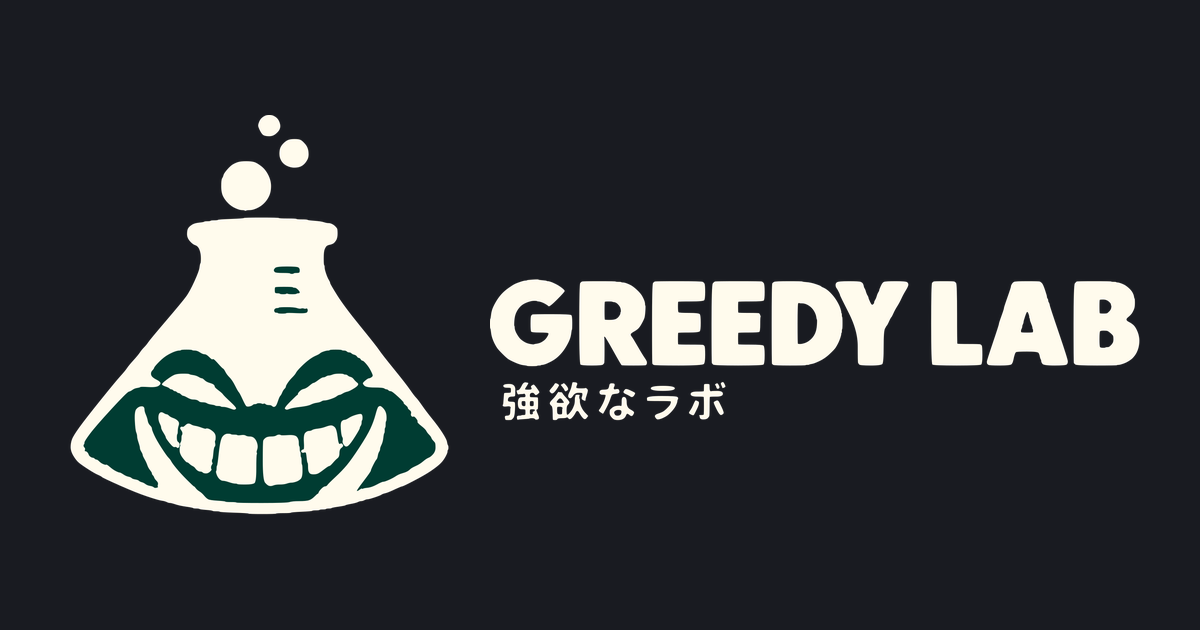
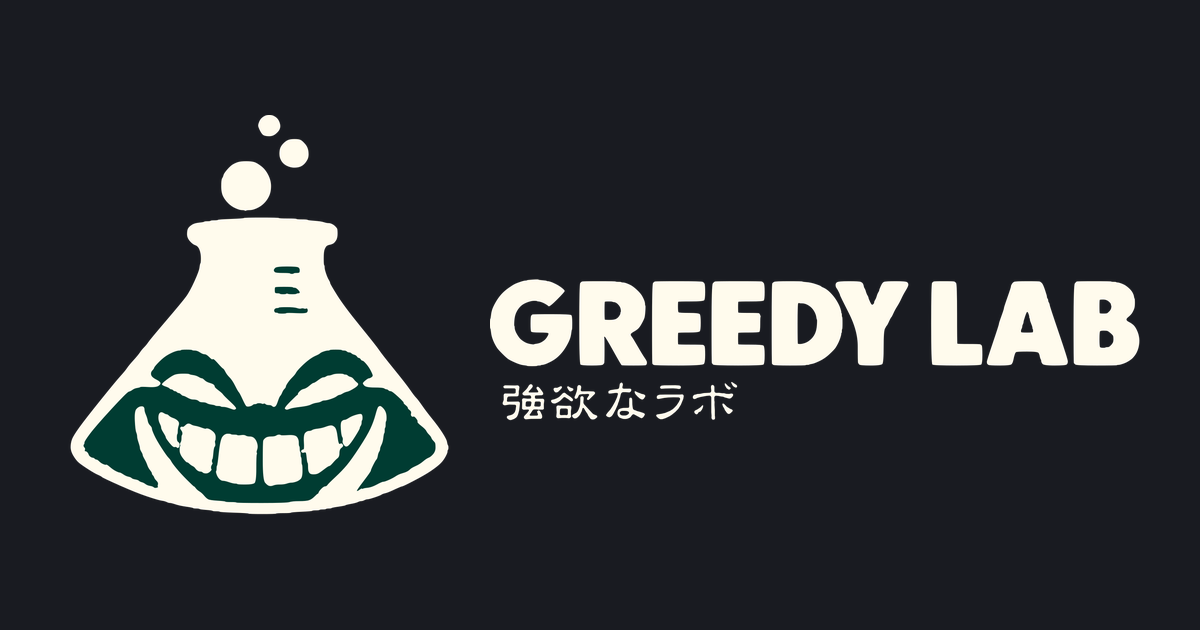
ロゴの「強欲なラボ」をカード名ふうの隷書に
GREEDY LAB のロゴ（wordmark-lockup・logo-lockup）の日本語部分の輪郭を、
試作フォント ProtoReisho-PR12（遊戯王のカード名の字を画像から写したもの）の
字の輪郭に入れ替えた。PNG は SVG を cairosvg で描き直し、OGP 画像
（og-logo・og-post-logo・og-image）は build_icons.py --og で作り直した。

- tools/build_brand_subtitle.py：日本語部分の輪郭を外し、同じ左端・高さに
  指定フォントの字を置く（フォントは --font で渡す。リポジトリには入れない）
- 変わったのは日本語の行だけ（入れ替え前後の画素の差で確認）

Changed region(s): [[0.4008, 0.6032, 0.6167, 0.6635]]

diff --git a/tools/build_brand_subtitle.py b/tools/build_brand_subtitle.py
@@ -1,0 +1,133 @@
+"""
+ロゴの「強欲なラボ」（GREEDY LAB の下の日本語）を、指定したフォントの字形に入れ替える（生成専用・本番未使用）
+
+使い方:
+    python tools/build_brand_subtitle.py --font <フォント.ttf>
+    python tools/build_icons.py --og      # 続けて OGP 画像（og-logo / og-post-logo / og-image）を作り直す
+
+入力:
+    static/brand/wordmark-lockup.svg・logo-lockup.svg（同じ輪郭の path を使い回している）
+    --font：字形を取るフォント。リポジトリには置かない（2026-10-30 は yugioh-shorts の試作フォント ProtoReisho-PR12.ttf。
+            カード名の字形を写した試作で、フォントファイルは配布しない。ロゴには輪郭だけを書き出す）
+出力（上書き）:
+    static/brand/wordmark-lockup.svg / .png（2000x436）・logo-lockup.svg / .png（1500x500）
+    PNG は SVG を cairosvg で描いたもの（入れ替え前の PNG もこの方法で描いたものと画素単位で一致することを確かめた）
+
+入れ替え方:
+    元の輪郭を部品（M〜Z）に分け、「GREEDY LAB」の下端より下にある部品を日本語の部分とみなして外す。
+    外した部分と同じ左端・同じ高さ・同じ上下の中心に、フォントの字の輪郭を置く（字送りはフォントの送り幅）。
+"""
+from pathlib import Path
+import argparse
+import re
+
+import cairosvg
+from fontTools.ttLib import TTFont
+from fontTools.pens.svgPathPen import SVGPathPen
+from fontTools.pens.transformPen import TransformPen
+from fontTools.pens.boundsPen import BoundsPen
+
+STATIC = Path(__file__).resolve().parent.parent / 'static'
+TEXT = '強欲なラボ'
+NUM = re.compile(r'-?\d+(?:\.\d+)?')
+
+
+def split_subpaths(d):
+    """M で始まり Z で終わる部品に分ける（このロゴは絶対座標の M・Q・Z だけで書かれている）。"""
+    parts = re.findall(r'M[^M]*', d)
+    if ''.join(parts) != d:
+        raise ValueError('path の形が想定と違う（M で始まる部品の並びになっていない）')
+    return parts
+
+
+def bbox(part):
+    v = list(map(float, NUM.findall(part)))
+    xs, ys = v[0::2], v[1::2]
+    return min(xs), min(ys), max(xs), max(ys)
+
+
+def split_upper_lower(parts):
+    """どの部品にもまたがれない高さで、上（GREEDY LAB）と下（日本語）に分ける。下の部品群が上より低いことも確かめる。"""
+    boxes = [bbox(p) for p in parts]
+    for y in sorted({b[3] for b in boxes}):
+        upper = [i for i, b in enumerate(boxes) if b[3] <= y]
+        lower = [i for i, b in enumerate(boxes) if b[1] > y]
+        if upper and lower and len(upper) + len(lower) == len(parts):
+            uh = max(boxes[i][3] for i in upper) - min(boxes[i][1] for i in upper)
+            lh = max(boxes[i][3] for i in lower) - min(boxes[i][1] for i in lower)
+            if lh < uh:
+                return upper, lower, boxes
+    raise ValueError('GREEDY LAB と日本語の境目が見つからない')
+
+
+def text_path(font_path, x0, y_center, height):
+    """フォントの字を、左端 x0・上下の中心 y_center・インクの高さ height に置いた SVG の path を返す。"""
+    font = TTFont(font_path)
+    cmap = font.getBestCmap()
+    gs = font.getGlyphSet()
+    hmtx = font['hmtx']
+    missing = [c for c in TEXT if ord(c) not in cmap]
+    if missing:
+        raise ValueError(f'フォントに字が無い: {"".join(missing)}')
+    # まずフォント単位でインクの外枠を測る（y は上向き）
+    bp = BoundsPen(gs)
+    cursor = 0
+    for ch in TEXT:
+        name = cmap[ord(ch)]
+        gs[name].draw(TransformPen(bp, (1, 0, 0, 1, cursor, 0)))
+        cursor += hmtx[name][0]
+    fx0, fy0, fx1, fy1 = bp.bounds
+    k = height / (fy1 - fy0)
+    # フォント座標 → ロゴの座標（y を反転）
+    pen = SVGPathPen(gs)
+    cursor = 0
+    fcy = (fy0 + fy1) / 2
+    for ch in TEXT:
+        name = cmap[ord(ch)]
+        t = (k, 0, 0, -k, x0 + (cursor - fx0) * k, y_center + fcy * k)
+        gs[name].draw(TransformPen(pen, t))
+        cursor += hmtx[name][0]
+    return pen.getCommands(), (fx1 - fx0) * k
+
+
+def replace_in_svg(svg_text, old_d, kept_d, new_d):
+    m = re.search(r'<path([^>]*)\sd="' + re.escape(old_d) + r'"([^>]*)/>', svg_text)
+    if not m:
+        raise ValueError('入れ替える path が見つからない')
+    attrs = (m.group(1) + m.group(2)).strip()
+    fill = re.search(r'fill="([^"]+)"', attrs).group(1)
+    repl = (f'<path {attrs} d="{kept_d}"/>'
+            f'<path fill="{fill}" fill-rule="nonzero" d="{new_d}"/>')
+    return svg_text[:m.start()] + repl + svg_text[m.end():]
+
+
+def main():
+    ap = argparse.ArgumentParser(description=__doc__.split('\n')[1])
+    ap.add_argument('--font', required=True, help='字形を取るフォント（.ttf）')
+    args = ap.parse_args()
+
+    word_svg = (STATIC / 'brand/wordmark-lockup.svg').read_text(encoding='utf-8')
+    old_d = re.search(r'<path[^>]*\sd="([^"]+)"', word_svg).group(1)
+    parts = split_subpaths(old_d)
+    upper, lower, boxes = split_upper_lower(parts)
+    lx0 = min(boxes[i][0] for i in lower); ly0 = min(boxes[i][1] for i in lower)
+    lx1 = max(boxes[i][2] for i in lower); ly1 = max(boxes[i][3] for i in lower)
+    new_d, new_w = text_path(args.font, lx0, (ly0 + ly1) / 2, ly1 - ly0)
+    kept_d = ''.join(parts[i] for i in upper)
+    print(f'GREEDY LAB の部品 {len(upper)}・日本語の部品 {len(lower)} を外した。'
+          f'日本語の幅 {lx1 - lx0:.1f} → {new_w:.1f}（高さ {ly1 - ly0:.1f} は同じ）')
+
+    for name, size in (('wordmark-lockup', (2000, 436)), ('logo-lockup', (1500, 500))):
+        p = STATIC / f'brand/{name}.svg'
+        s = p.read_text(encoding='utf-8')
+        if s.count(f'd="{old_d}"') != 1:
+            raise ValueError(f'{name}.svg に入れ替え前の輪郭が1つだけ入っている前提が崩れている')
+        s = replace_in_svg(s, old_d, kept_d, new_d)
+        p.write_text(s, encoding='utf-8', newline='')
+        cairosvg.svg2png(url=str(p), write_to=str(STATIC / f'brand/{name}.png'),
+                         output_width=size[0], output_height=size[1])
+        print(f'{name}.svg / .png を書き換えた')
+
+
+if __name__ == '__main__':
+    main()

diff --git a/docs/decisions.md b/docs/decisions.md
@@ -2646,3 +2646,11 @@ rarity_pref 基準に統一。`items_map` のキーも rarity_pref で作る。
 - **何を**: 「未発売のN種（発売日ごとの数）はこの金額に含みません」＋「カード名を見る」で開く。2種までは名前を並べる
 - **なぜ**: 新弾の発売前は未発売が数十種になり、名前の羅列が数行に伸びて一番安い買い方が埋もれた
 
+## 2026-10-30 ロゴの「強欲なラボ」をカード名ふうの隷書（試作フォント ProtoReisho-PR12）に（ユーザー指示「PR12 で作る」）
+- **何を**: wordmark-lockup・logo-lockup の SVG の日本語部分の輪郭を、PR12 の字の輪郭に入れ替え、PNG と OGP 画像（og-logo・og-post-logo・og-image）を描き直した。生成は tools/build_brand_subtitle.py（--font で場所を渡す）→ tools/build_icons.py --og
+- **なぜ**: ユーザーの希望。遊戯王のカード名の字（DF隷書体）に寄せる
+- **PR12 とは**: yugioh-shorts で作った試作フォント。カードの画像のカード名から字を切り出して重ね、輪郭を取ったもの（作り方は yugioh-shorts\_fonts\proto_reisho\README.md）。フォントのファイルはリポジトリに入れない（配布しない）。ロゴには字の輪郭だけを書き出す
+- **受け入れたこと（ユーザーに説明のうえ）**: 字の形は DF隷書体をカード画像から写したもの。書体のデザインは原則として著作権で守られず、ロゴは輪郭の画像なのでフォントの配布にも当たらないと見ているが未検証。公式と関係があるように見えるおそれも残る
+- **採らなかった案**: 使用許諾のある書体（DynaSmart T 年7,480円など）で組む（権利の面は確実だが、ユーザーが PR12 を選んだ）
+- 漢字だけのロゴ wordmark-kanji はどこからも使われていないので変えていない
+

diff --git a/docs/activeContext.md b/docs/activeContext.md
@@ -1,5 +1,11 @@
 # activeContext — 今どこ・次何
 
+## 2026-10-30: ロゴの「強欲なラボ」を隷書（試作フォント PR12）に（branch feat/brand-reisho-subtitle・本番未反映）
+- ユーザー希望。PR12＝yugioh-shorts で作ったカード名ふうの試作フォント（カタカナ・ひらがな・強・欲）。権利の見立て（未検証）を説明のうえ「PR12 で作る」
+- tools/build_brand_subtitle.py で wordmark-lockup / logo-lockup の SVG の日本語部分（22部品）を外し、同じ左端・高さに PR12 の輪郭を置いて PNG を cairosvg で描き直し（元の PNG も cairosvg 描画と画素一致を確認済み）→ build_icons.py --og で OGP 3枚。変わったのは日本語の行だけ（画素の差で確認）
+- 確認: ロゴ・アイコン・OGP・デッキ画像のテスト 180 passed（2 skipped）。ブラウザで SVG がヘッダー幅（220px）でも読めることを確認。本番の画面は未確認
+- 次: ユーザー確認のうえ取り込み（static/brand/** は定期実行4つも組み立てる）→ 本番のヘッダー・OGP を確認 → worktree とブランチを消す
+
 ## 2026-10-30: 購入候補の店ごとの表の見出しを「1店でまとめて買うと（送料込み）」に（本番 PR #294 b2bf194）
 - ユーザー指摘（「店ごとの支払い（送料込み）」は意味が伝わらない）。分けて買うときの内訳とも読めたため、枠の中の「1店でまとめるなら」と同じ言い方に。注文できない店の見出しは「1店でまとめて買うと最低注文金額に届かない店」
 - ローカルで PC・スマホ幅とも1行に収まることを確認。本番 JS への反映を確認。worktree・ブランチは削除済み
